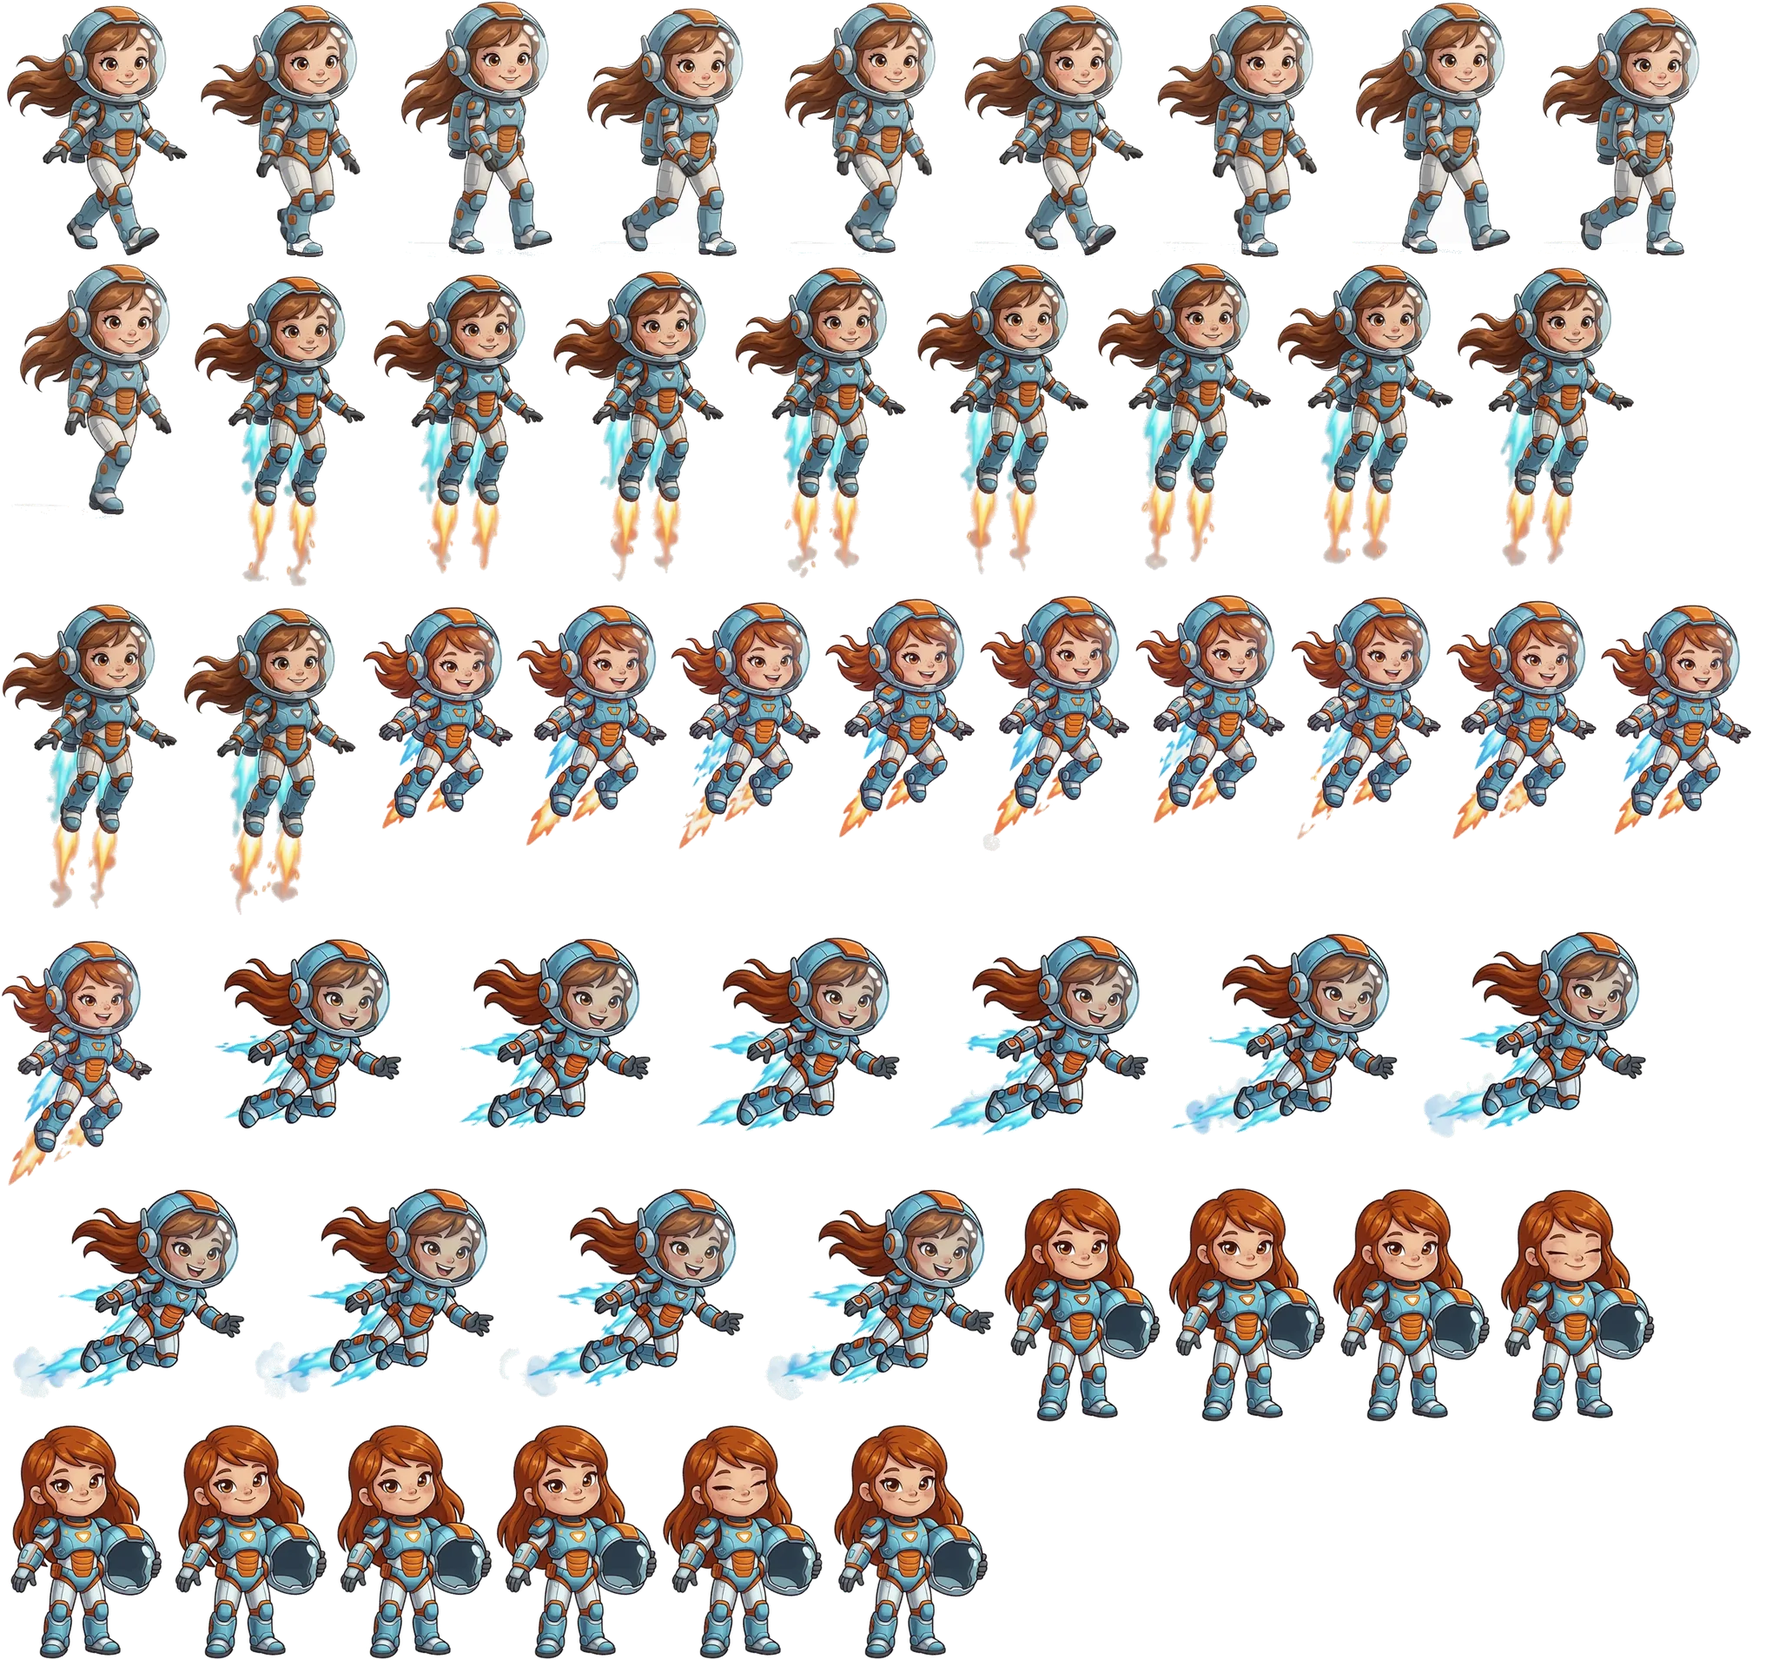
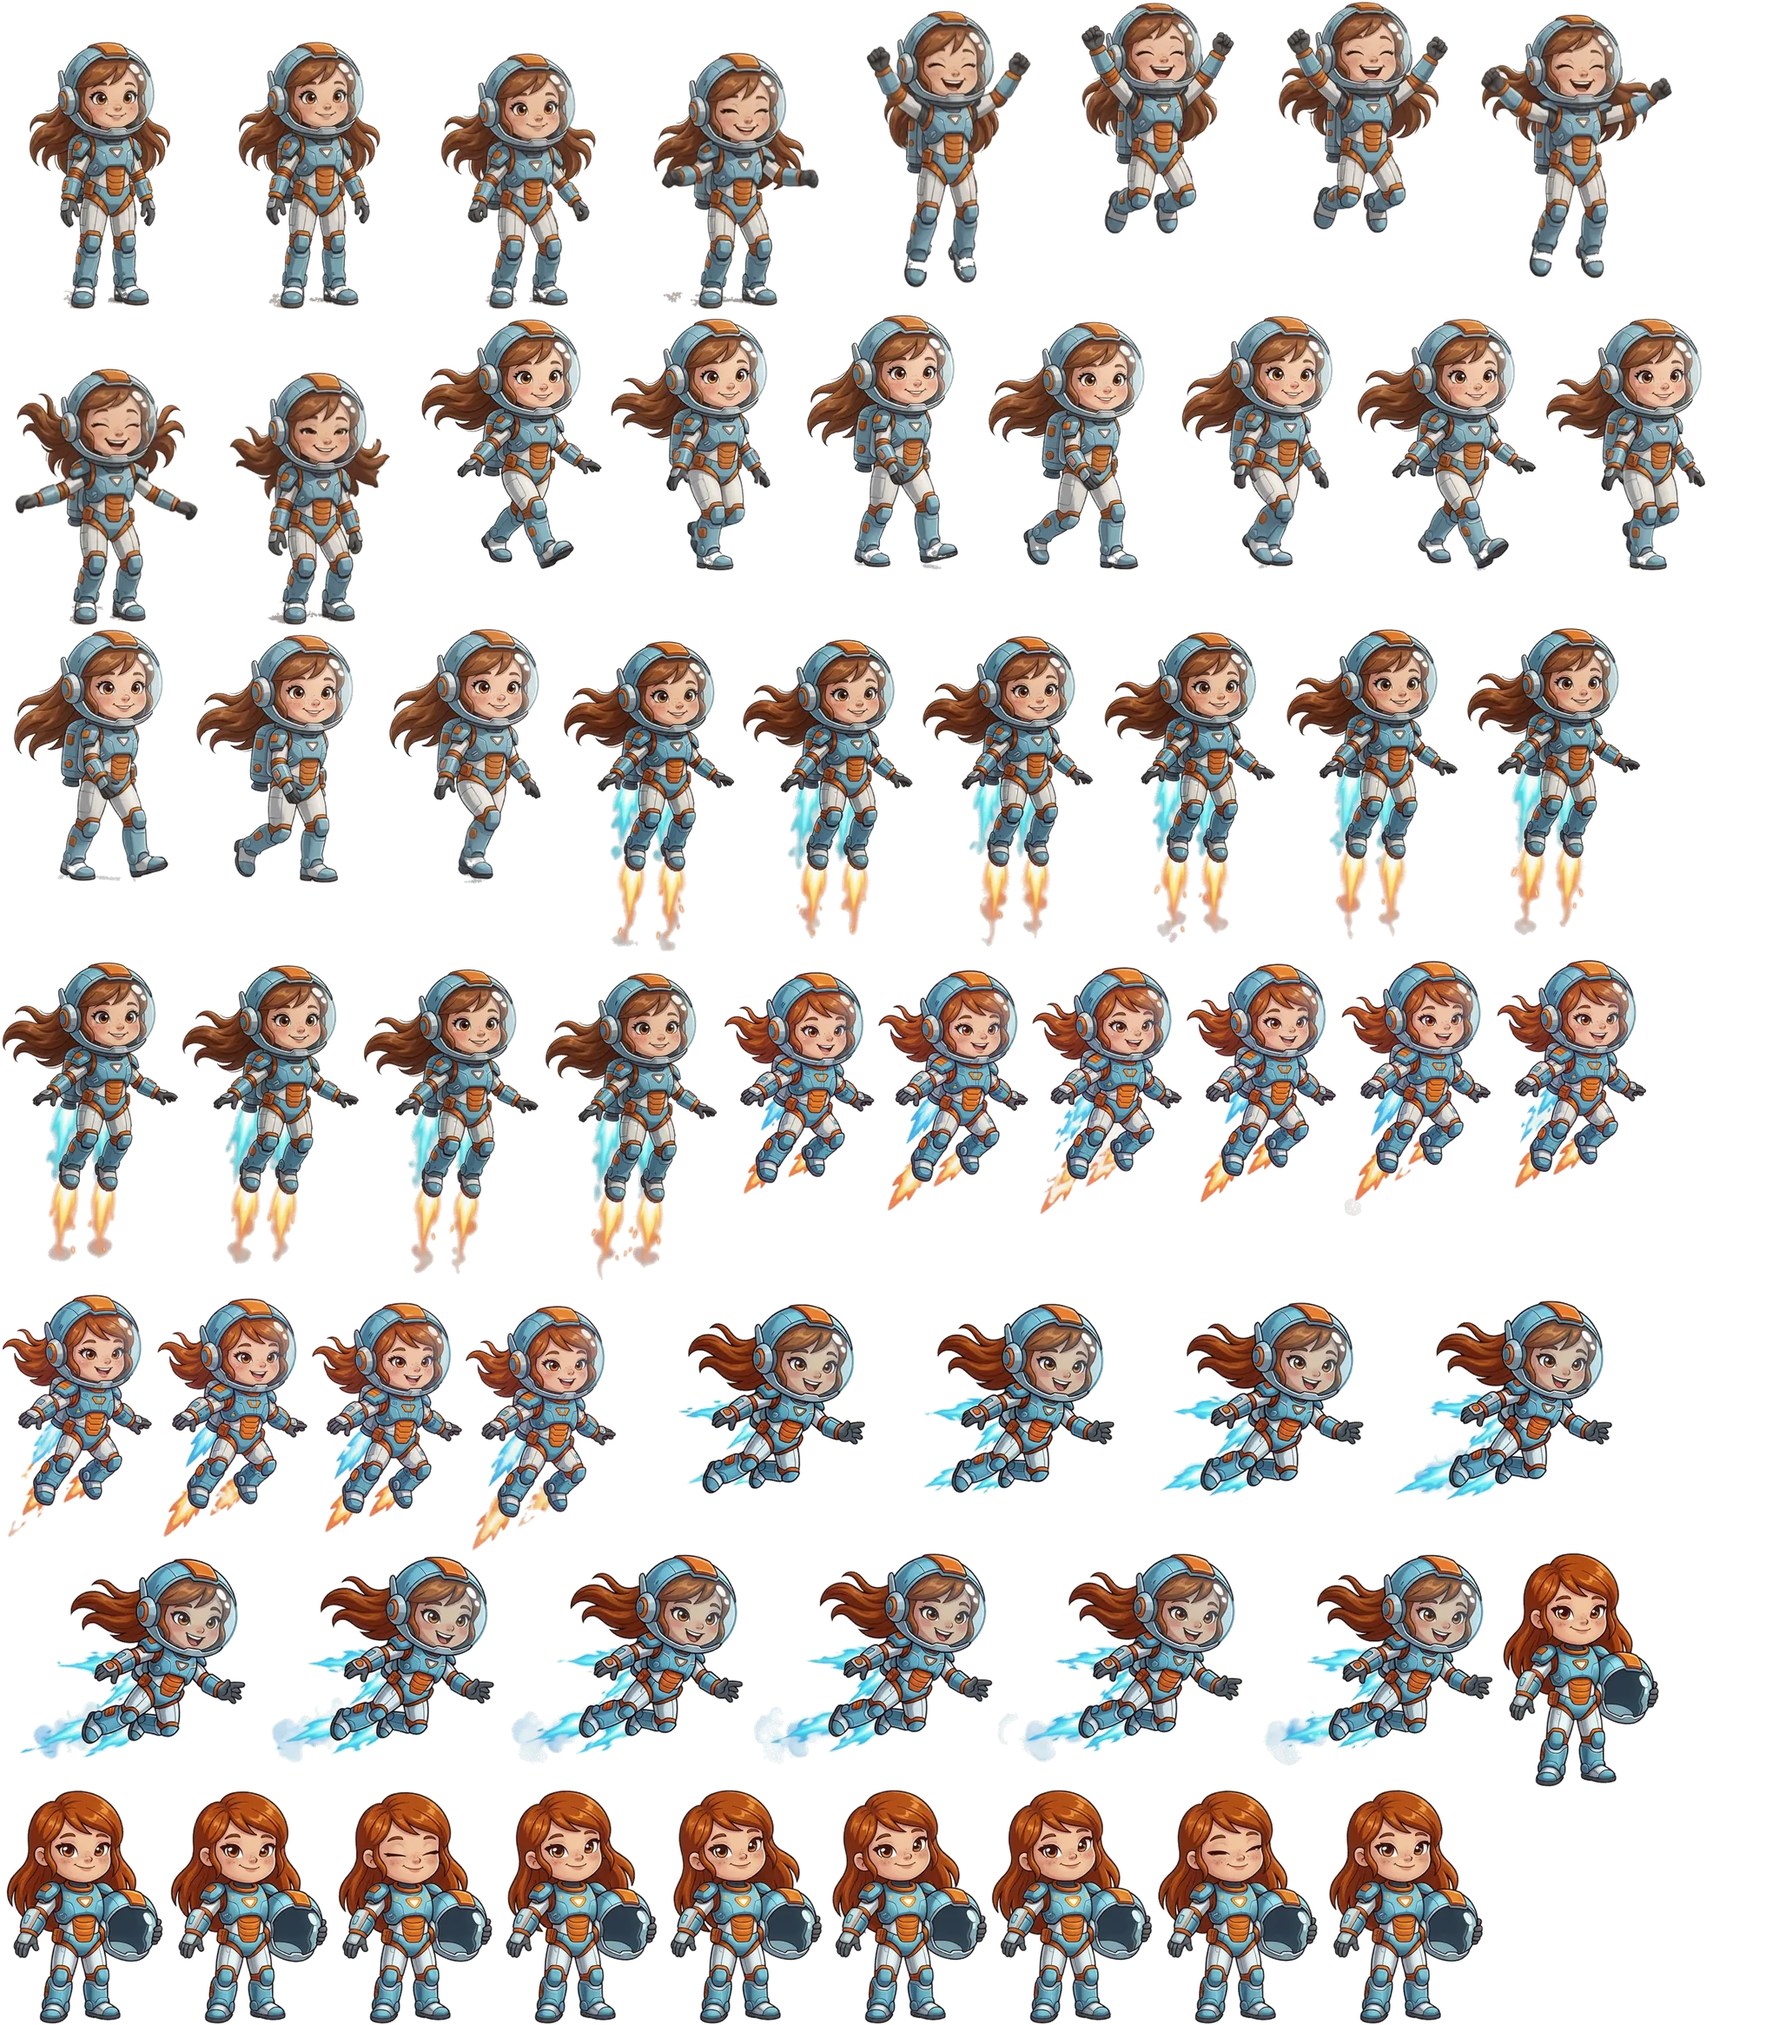
Rose : animation de victoire, ombre au sol retirée de la marche
Claude-Session: https://claude.ai/code/session_01FhTJbNJJAdhQd32yrScHvE

diff --git a/tools/rose/cut_v.py b/tools/rose/cut_v.py
@@ -1,0 +1,34 @@
+from PIL import Image, ImageSequence; import numpy as np, json
+from scipy import ndimage
+U='/mnt/user-data/uploads/'
+import sys
+G={'victoire':'8e68ed5e'}
+info={}
+for n,f in G.items():
+    frames=[x.convert('RGB') for x in ImageSequence.Iterator(Image.open(U+f+'-image.gif'))]
+    outs=[]
+    for i,fr in enumerate(frames):
+        a=np.asarray(fr).astype(float); h,w,_=a.shape
+        bg=np.median(np.concatenate([a[:6].reshape(-1,3),a[-6:].reshape(-1,3),a[:,:6].reshape(-1,3),a[:,-6:].reshape(-1,3)]),0)
+        d=np.sqrt(((a-bg)**2).sum(2))
+        near=d<30
+        mx=a.max(2); mn=a.min(2); yy=np.mgrid[0:h,0:w][0]
+        near|=(yy>h*.72)&(mx-mn<22)&(mx>75)&(mx<228)          # ombre grise au sol : traitée comme du fond
+        lab,_=ndimage.label(near); border=set(np.unique(np.concatenate([lab[0],lab[-1],lab[:,0],lab[:,-1]])))-{0}
+        bgm=np.isin(lab,list(border))
+        al=np.where(bgm,0.,255.)
+        edge=bgm&ndimage.binary_dilation(~bgm,iterations=2); al[edge]=np.clip((d[edge]-8)/30*255,0,255)
+        fg=al>60; l2,nn=ndimage.label(fg)
+        if nn>1:
+            sz=ndimage.sum(fg,l2,range(1,nn+1)); keep=np.isin(l2,1+np.where(sz>=sz.max()*0.004)[0]); al[~ndimage.binary_dilation(keep,iterations=2)]=0
+        # dé-teinter le bord (retirer la couleur du fond)
+        A=(al/255)[...,None]; rgb=np.where(A>0.02,(a-bg*(1-A))/np.maximum(A,.02),a); rgb=np.clip(rgb,0,255)
+        outs.append(np.dstack([rgb,al]).astype(np.uint8))
+    # boîte commune à toute l'animation (garde le mouvement interne)
+    union=np.zeros(outs[0].shape[:2],bool)
+    for o in outs: union|=o[...,3]>40
+    ys,xs=np.nonzero(union); bb=(xs.min(),ys.min(),xs.max()+1,ys.max()+1)
+    for i,o in enumerate(outs): Image.fromarray(o,'RGBA').crop(bb).save(f'{n}_{i:02d}.png')
+    info[n]={'bb':[int(v) for v in bb],'n':len(outs)}
+    print(n,bb)
+json.dump(info,open('info_v.json','w'))

diff --git a/tools/rose/build.py b/tools/rose/build.py
@@ -1,14 +1,14 @@
 from PIL import Image; import numpy as np, json, os
-S={'marche':.964,'stationnaire':.93,'vol_lent':.82,'vol_rapide':1.02}
-PL={'marche':(209,20),'stationnaire':(197,24),'vol_lent':(198,29),'vol_rapide':(321,25)}
-NAME={'marche':'rose_walk','stationnaire':'rose_hover','vol_lent':'rose_fly','vol_rapide':'rose_dash'}
+S={'victoire':.95,'marche':.964,'stationnaire':.93,'vol_lent':.82,'vol_rapide':1.02}
+PL={'victoire':(193,0),'marche':(202,20),'stationnaire':(197,24),'vol_lent':(198,29),'vol_rapide':(321,25)}
+NAME={'victoire':'rose_win','marche':'rose_walk','stationnaire':'rose_hover','vol_lent':'rose_fly','vol_rapide':'rose_dash'}
 FINAL=.70; FEET=424*.964; STEP=3
 frames={}; ims=[]
 for n,s in S.items():
     k=s*FINAL; px,py=PL[n]
     for j,i in enumerate(range(0,30,STEP)):
         im=Image.open(f'{n}_{i:02d}.png'); W,H=im.size; im=im.resize((round(W*k),round(H*k)),Image.LANCZOS)
-        ax=px*k; ay=(py+FEET/s)*k if n!='marche' else 444*k
+        ax=px*k; ay=(py+FEET/s)*k if n not in ('marche','victoire') else (442 if n=='marche' else 540)*k
         ims.append((f'{NAME[n]}{j}',im,ax,ay))
 for j,i in enumerate(range(0,30,STEP)):
     im=Image.open(f'choix_{i:02d}.png'); k=.6; im=im.resize((round(im.width*k),round(im.height*k)),Image.LANCZOS)
